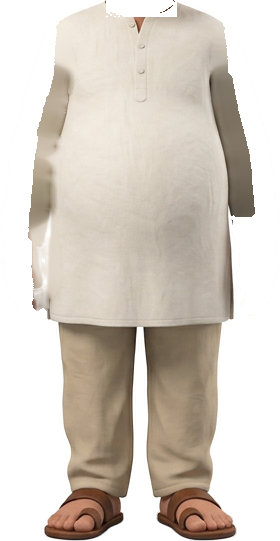
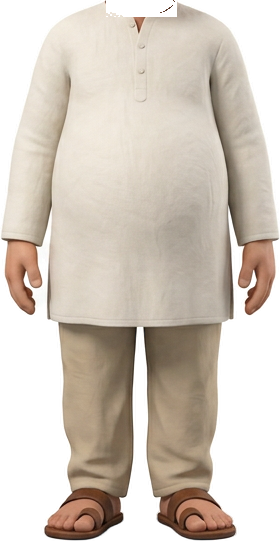
Puppets: gentler pose angles, Papa keeps still arms (kurta sleeves cannot be cut cleanly)
Claude-Session: https://claude.ai/code/session_01UFWoJhyahJFotHxmxZwApH

Changed region(s): [[0.0, 0.0296, 0.2857, 0.5915], [0.7429, 0.0296, 1.0, 0.5915]]

diff --git a/engine/assets/skit.html b/engine/assets/skit.html
@@ -268,8 +268,8 @@ function drawPerson(id,Pa,Pb,p,t,talk,lv,act){
 
 
 /* ================= image puppets: Firefly-designed characters cut into parts by make_puppet.py ================= */
-const PUP_ARMS={idle:[0,0],talk:[0,-16],shock:[55,-55],happy:[34,-34],laugh:[10,-10],angry:[14,-72],sad:[-5,5],point:[0,-84],
- think:[0,-34],sly:[-6,6],dance:[30,-30],hand:[0,-125],facepalm:[-5,5],hold:[18,-22],wave:[0,-110]};
+const PUP_ARMS={idle:[0,0],talk:[0,-12],shock:[32,-32],happy:[24,-24],laugh:[8,-8],angry:[10,-45],sad:[-4,4],point:[0,-55],
+ think:[0,-22],sly:[-5,5],dance:[20,-20],hand:[0,-70],facepalm:[-5,5],hold:[14,-18],wave:[0,-65]};   // gentle: a rigid cut-out arm looks wrong when swung far
 const PUP_BROW={n:[0,0],up:[-7,0],angry:[2,13],sad:[-4,-13],think:[0,0],sly:[2,0]};
 const PUP_LID={n:[0,0],wide:[0,0],angry:[.36,0],sad:[.3,0],up:[0,0],sly:[.38,.1],happy:[.08,.24],shut:[1,0]};
 let PUPN=0;
@@ -281,8 +281,8 @@ function drawPuppet(id,Pa,Pb,p,t,talk,lv,act){
  const dance=Pb==='dance'&&p>.5, wig=Math.sin(t*9);
  if(dance){aL+=wig*22;aR+=wig*22}
  if(talk&&Pb!=='shock'){const a=.6+lvs, calm=['idle','sly','hold','sad','think'].includes(Pb);
-   if(calm){aR-=20;aL+=6}                                      // talking hands: lift and wave while speaking
-   aR+=Math.sin(t*4.3)*16*a+Math.sin(t*7.1)*4*lvs; aL+=Math.sin(t*3.1+1)*8*a}
+   if(calm){aR-=14;aL+=4}                                      // talking hands: lift and wave while speaking
+   aR+=Math.sin(t*4.3)*11*a+Math.sin(t*7.1)*3*lvs; aL+=Math.sin(t*3.1+1)*6*a}
  if(Pb==='angry'&&p>.5)aR+=Math.sin(t*14)*6;
  if(Pb==='wave'||Pb==='hand')aR+=Math.sin(t*8)*14;
  const img=(n,extra)=>{const q=m[n].at;return `<image href="${I[n]}" x="${q[0]}" y="${q[1]}" width="${q[2]}" height="${q[3]}"${extra||''}/>`};
